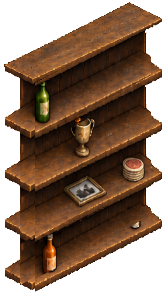
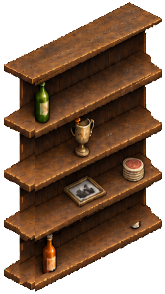
Variações com a câmera do modelo base e estados alinhados pelo desenho
- Os modelos b e c usam a câmera medida no modelo base: as bancadas emendam sem degrau.
- O outro estado (o armário aberto) é alinhado pelo desenho; nos armários que abrem a porta,
  pelo tampo ("alinhar_estado": "topo"), que não muda ao abrir.
- Gabaritos da luz de emergência e do ar-condicionado para os pedidos de refazer.

diff --git a/scripts/3d/moveis.py b/scripts/3d/moveis.py
@@ -94,7 +94,8 @@ própria folha ("folha" no móvel); senão vale a da ficha.
 - "so_giros": só os giros da ficha têm arte; nos outros, o jogo desenha por código (a porta:
   nas paredes do fundo a arte, nas da frente, que não aparecem, a soleira). Um móvel com
   "def": "<id>@<material>" (portal@metal) é a arte daquele móvel nos cômodos desse material,
-  e "<id>~<letra>" (gun_table~b) é outro modelo do mesmo móvel, que o jogo sorteia por peça.
+  e "<id>~<letra>" (gun_table~b) é outro modelo do mesmo móvel, que o jogo sorteia por peça. O outro
+  modelo usa a câmera medida no modelo base (vem depois dele na ficha), para os módulos emendarem.
 - "espelhar_estado": {"1": {"6": "2"}}: a vista de um estado que veio torta é a de outro giro
   espelhada (o baú aberto visto de costas).
 - "estados": {"1": folha, ...} (móvel desenhado como está): o mesmo móvel em outro estado
@@ -827,6 +828,10 @@ def manter_cima(ent, antigo):
             ent[k] = antigo[k]
 
 
+# a câmera de cada giro de cada móvel base, para os outros modelos dele ("<id>~b") usarem a mesma
+CAMERAS = {}
+
+
 def quatro_giros(m, folha, caixas, destino, escala):
     """
     O móvel desenhado nos 4 giros: cada vista no tamanho de verdade, no ângulo do tabuleiro.
@@ -897,8 +902,21 @@ def quatro_giros(m, folha, caixas, destino, escala):
             print(f"{m['def']} giro {giro}: pela imagem, {img.shape[1]}x{img.shape[0]}", flush=True)
             continue
         livre = ('proporcao' if m.get('como_esta') else 'tudo') if real else False
-        ang = angulos_do_desenho(rec) if m.get('angulos') else None
-        cam, nota = ajustar_camera(rec[:, :, 3] > 100, wr, dr, hr, livre=livre, angulos=ang)
+        base_cam = CAMERAS.get((m['def'].split('~')[0], giro)) if '~' in m['def'] and not espelho and not m.get('retificar') else None
+        if base_cam:
+            # outro modelo do mesmo móvel (gun_table~b): o desenho é o do modelo base com outra coisa em
+            # cima, no mesmo lugar da folha; medido sozinho, a câmera saía um pouco diferente e os módulos
+            # lado a lado ficavam em degrau. Usa a câmera do base, só deslocada pelo recorte.
+            cam = dict(base_cam['cam'])
+            cam['u0'] += base_cam['origem'][0] - origem[0]
+            cam['v0'] += base_cam['origem'][1] - origem[1]
+            nota = base_cam['nota']
+            print(f"{m['def']} giro {giro}: a câmera do {m['def'].split('~')[0]}", flush=True)
+        else:
+            ang = angulos_do_desenho(rec) if m.get('angulos') else None
+            cam, nota = ajustar_camera(rec[:, :, 3] > 100, wr, dr, hr, livre=livre, angulos=ang)
+            if '~' not in m['def'] and not espelho and not m.get('retificar'):
+                CAMERAS[(m['def'], giro)] = {'cam': cam, 'origem': origem, 'nota': nota}
         ys_, xs_ = np.nonzero(rec[:, :, 3] > 100)
         vistas.append({'giro': giro, 'nome': nome, 'rec': rec, 'troca': troca, 'Wt': Wt, 'Dt': Dt,
                        'wr': wr, 'dr': dr, 'hr': hr, 'cam': cam, 'nota': nota,
@@ -1019,6 +1037,44 @@ def chamas_pela_diferenca(acesa, ax, ay, apagada, bx, by):
     return achar_chamas(acesa, quente)
 
 
+def alinhar_estado(base, bax, bay, outra, oax, oay, busca=14, topo=False):
+    """
+    O deslocamento (em pixels da vista) que põe o desenho do outro estado em cima do estado 0: o que
+    tem a menor diferença de cor nos pixels do corpo do estado 0 (a porta aberta muda um pedaço, mas o
+    resto do móvel bate). (0, 0) quando a folha já estava no lugar. topo ("alinhar_estado": "topo" na
+    ficha, o armário que abre a porta): compara só o tampo (o quinto de cima), que não muda ao abrir, com
+    uma busca maior; não serve para o baú, em que é o tampo que abre.
+    """
+    B = base.astype(np.float32)
+    O = outra.astype(np.float32)
+    corpo = B[..., 3] > 200
+    ys, xs = np.nonzero(corpo)
+    if topo:
+        alto = ys.max() - ys.min()
+        sel = ys < ys.min() + 0.22 * alto
+        ys, xs = ys[sel], xs[sel]
+        busca = 40
+    if len(ys) < 50:
+        return 0, 0
+    # na tela, o pixel (x, y) do estado 0 cai no pixel (x + ox - bx, y + oy - by) do outro
+    dx0, dy0 = int(round(oax - bax)), int(round(oay - bay))
+    melhor, achado, zero = None, (0, 0), None
+    for sy in range(-busca, busca + 1):
+        for sx in range(-busca, busca + 1):
+            u, v = xs + dx0 + sx, ys + dy0 + sy
+            ok = (u >= 0) & (v >= 0) & (u < O.shape[1]) & (v < O.shape[0])
+            dif = np.full(len(ys), 3 * 255.0, dtype=np.float32)
+            dif[ok] = np.abs(O[v[ok], u[ok], :3] - B[ys[ok], xs[ok], :3]).sum(axis=1) + (O[v[ok], u[ok], 3] < 128) * 3 * 255.0
+            # a mediana: a parte que mudou (a porta aberta) não decide; no tampo, que não muda, a média
+            nota = float(dif.mean()) if topo else float(np.median(dif))
+            if sx == 0 and sy == 0:
+                zero = nota
+            if melhor is None or nota < melhor - 1e-3 or (abs(nota - melhor) <= 1e-3 and abs(sx) + abs(sy) < abs(achado[0]) + abs(achado[1])):
+                melhor, achado = nota, (sx, sy)
+    # só mexe quando o desenho bate claramente melhor (a porta aberta, que muda quase tudo, fica onde está)
+    return achado if zero is not None and melhor < 0.6 * zero else (0, 0)
+
+
 def outros_estados(m, ent, origens, caixas, pasta, imgs):
     """
     As vistas dos outros estados (o armário aberto): cada uma recortada na folha dela, no pedaço
@@ -1050,7 +1106,13 @@ def outros_estados(m, ent, origens, caixas, pasta, imgs):
             X, Y = x0 + vista['ax'] / kx, y0 + vista['ay'] / ky
             nome = f'giro-{giro}-{estado}.png'
             gravar(img, os.path.join(pasta, nome))
-            dest['giros'][giro] = {'arquivo': f"{m['def']}/{nome}", 'ax': round((X - vx) * kx, 1), 'ay': round((Y - vy) * ky, 1)}
+            oax, oay = (X - vx) * kx, (Y - vy) * ky
+            # o gerador nem sempre desenha o outro estado no mesmo lugar da folha: acerta pelo desenho
+            # (o corpo do móvel, que não muda, cai em cima do corpo do estado 0)
+            sx, sy = alinhar_estado(base, vista['ax'], vista['ay'], img, oax, oay, topo=m.get('alinhar_estado') == 'topo')
+            if sx or sy:
+                print(f"{m['def']} giro {giro}, estado {estado}: alinhado pelo desenho ({sx:+d}, {sy:+d} px)", flush=True)
+            dest['giros'][giro] = {'arquivo': f"{m['def']}/{nome}", 'ax': round(oax + sx, 1), 'ay': round(oay + sy, 1)}
             if 'ancora' in vista:
                 dest['giros'][giro]['ancora'] = vista['ancora']
             imgs.append(img)
